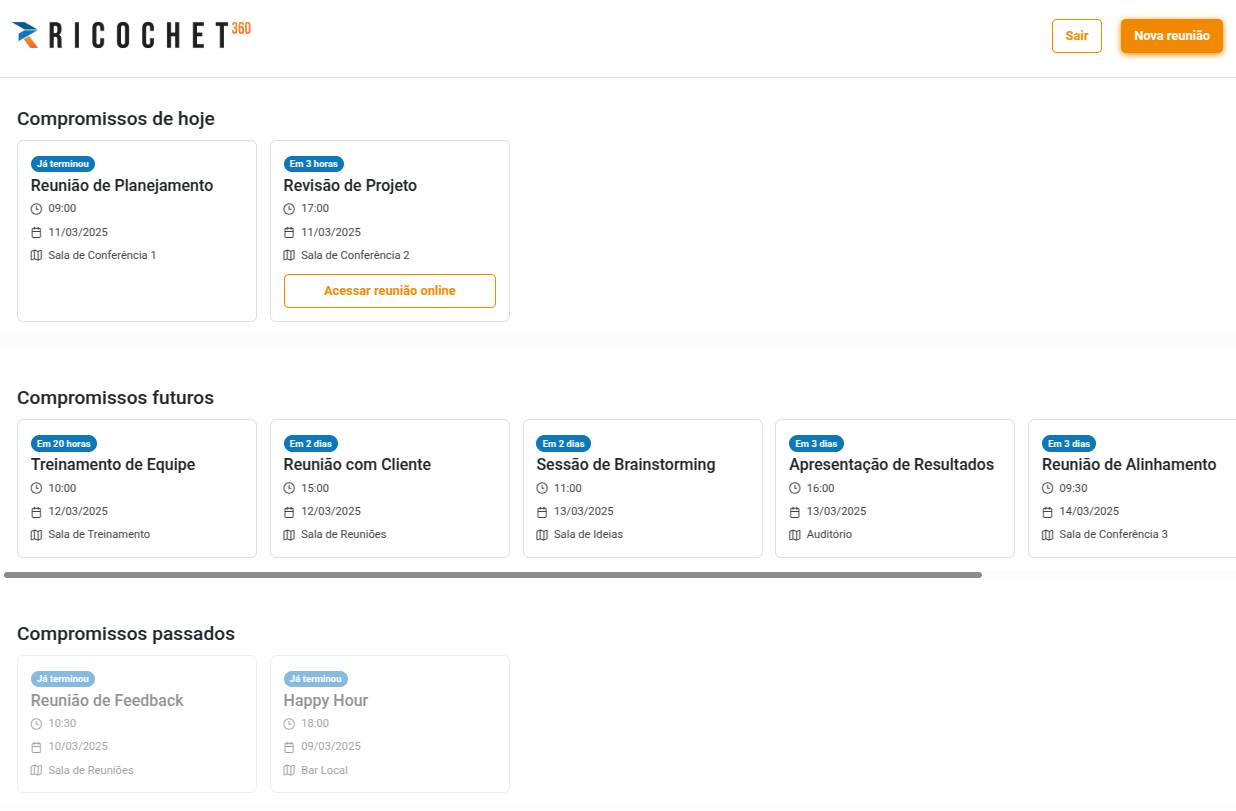
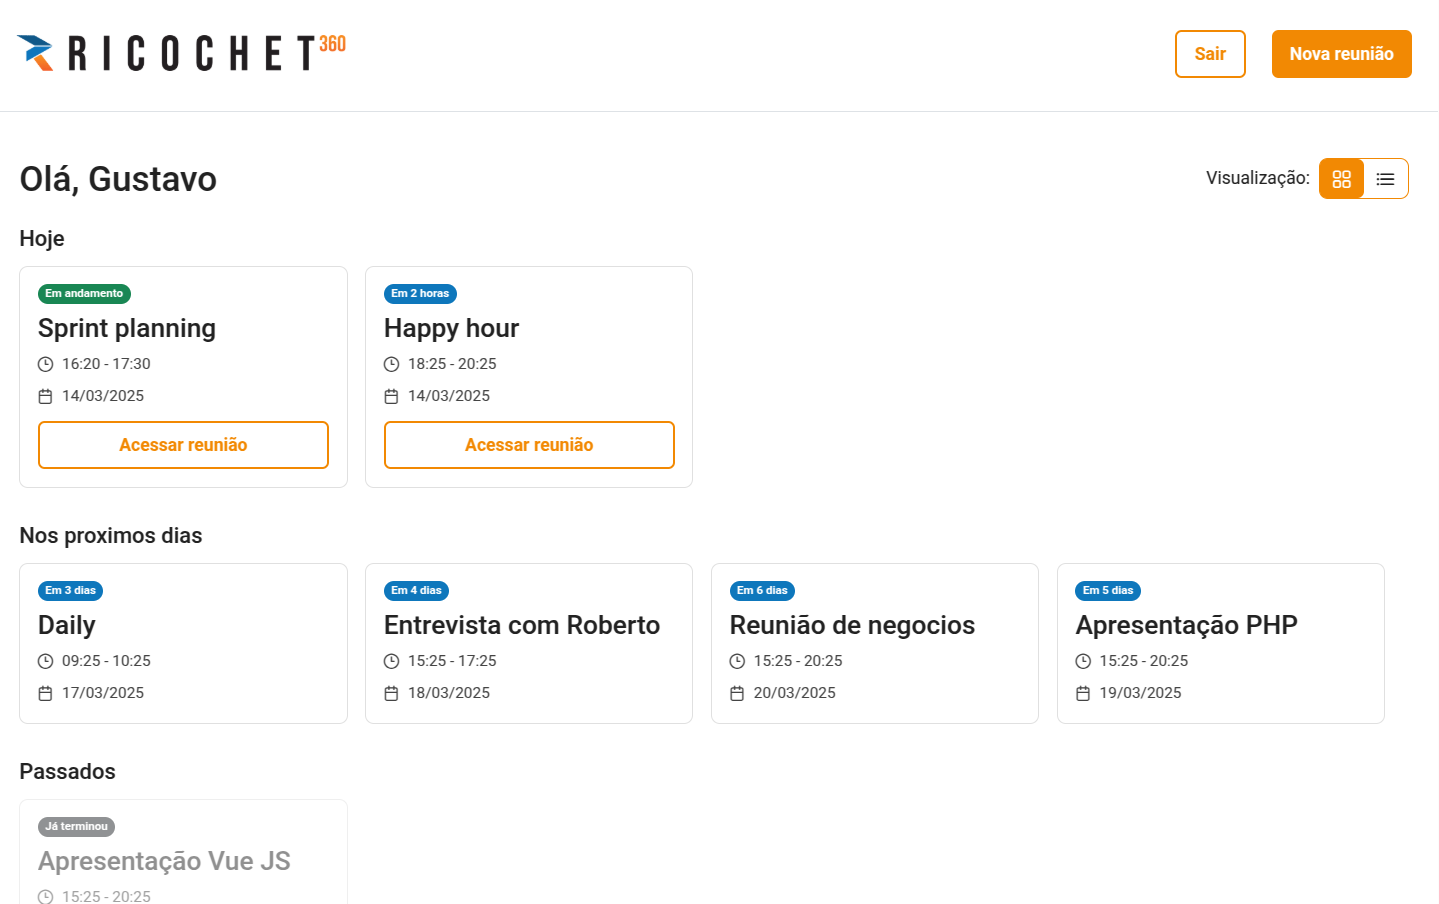
documentação

diff --git a/README.md b/README.md
@@ -2,6 +2,8 @@
 
 Este projeto é um desafio da empresa Ricochet 360 de criar um sistema CRM de gestão de reuniões.
 
+![Dashboard](public/img/documentation/dashboard.png)
+
 ## Arquitetura da solução
 
 Este projeto contém as rotas:
@@ -40,15 +42,43 @@ Nesta tela é possível visualizar todos os eventos do usuário. Eles são divid
 
 ![Dashboard](public/img/documentation/dashboard.png)
 
+A tela possui 2 visualizações dos eventos, sendo uma em grid e outra em lista.
+
+![DashboardList](public/img/documentation/dashboardList.png)
+
+### Responsividade
+
+O conteúdo da tela é responsivo, respeitando os breakpoints de tablet e celular.
+
+Observe que na versão mobile, é adicionado um scroll horizontal para melhor visualização dos eventos. Seguindo boas práticas de UX, os eventos possuem o tamanho de 70% da tela para ser possível visualizar o próximo no scroll lateral.
+
+| Tablet | Celular |
+| --- | --- |
+| ![DashboardTablet](public/img/documentation/dashboardTablet.png) | ![DashboardCelular](public/img/documentation/dashboardCelular.png) |
+
 ### Eventos
 
 Cada evento possui título, data de início, horário de início e local. Caso o evento tenha um link, é exibido um botão de acesso à reunião online. No topo do evento, foi colocado um badge que exibe o status do evento, podendo ser "Já terminou", "Em andamento", uma contagem de horas ou uma contagem de dias.
 
+![Evento-andamento](public/img/documentation/event-andamento.png)
+
 ![Evento](public/img/documentation/event.png)
 
-### Estado do evento
+![Evento-expirado](public/img/documentation/event-expirado.png)
 
-Descrição do estado do evento
+### Novo evento
+
+Ao clicar no botão do canto superior direito da tela, é aberta uma modal para o cadastro de um novo evento.
+
+Essa modal permite ao usuário criar um novo evento preenchendo titulo, descrição, inicio, fim link e a lsita dos participantes.
+
+Ao salvar, o evento é adicionado à lista de eventos do usuário e a modal é fechada. Se o usuário optar por cancelar, a modal é fechada sem salvar as informações.
+
+![Eventonovo](public/img/documentation/new-event.png)
+
+A lsita de participantes é dinamica de acordo com os usuários cadastrados no banco.
+
+![convidados](public/img/documentation/event-participants.png)
 
 ### Notificações
 
